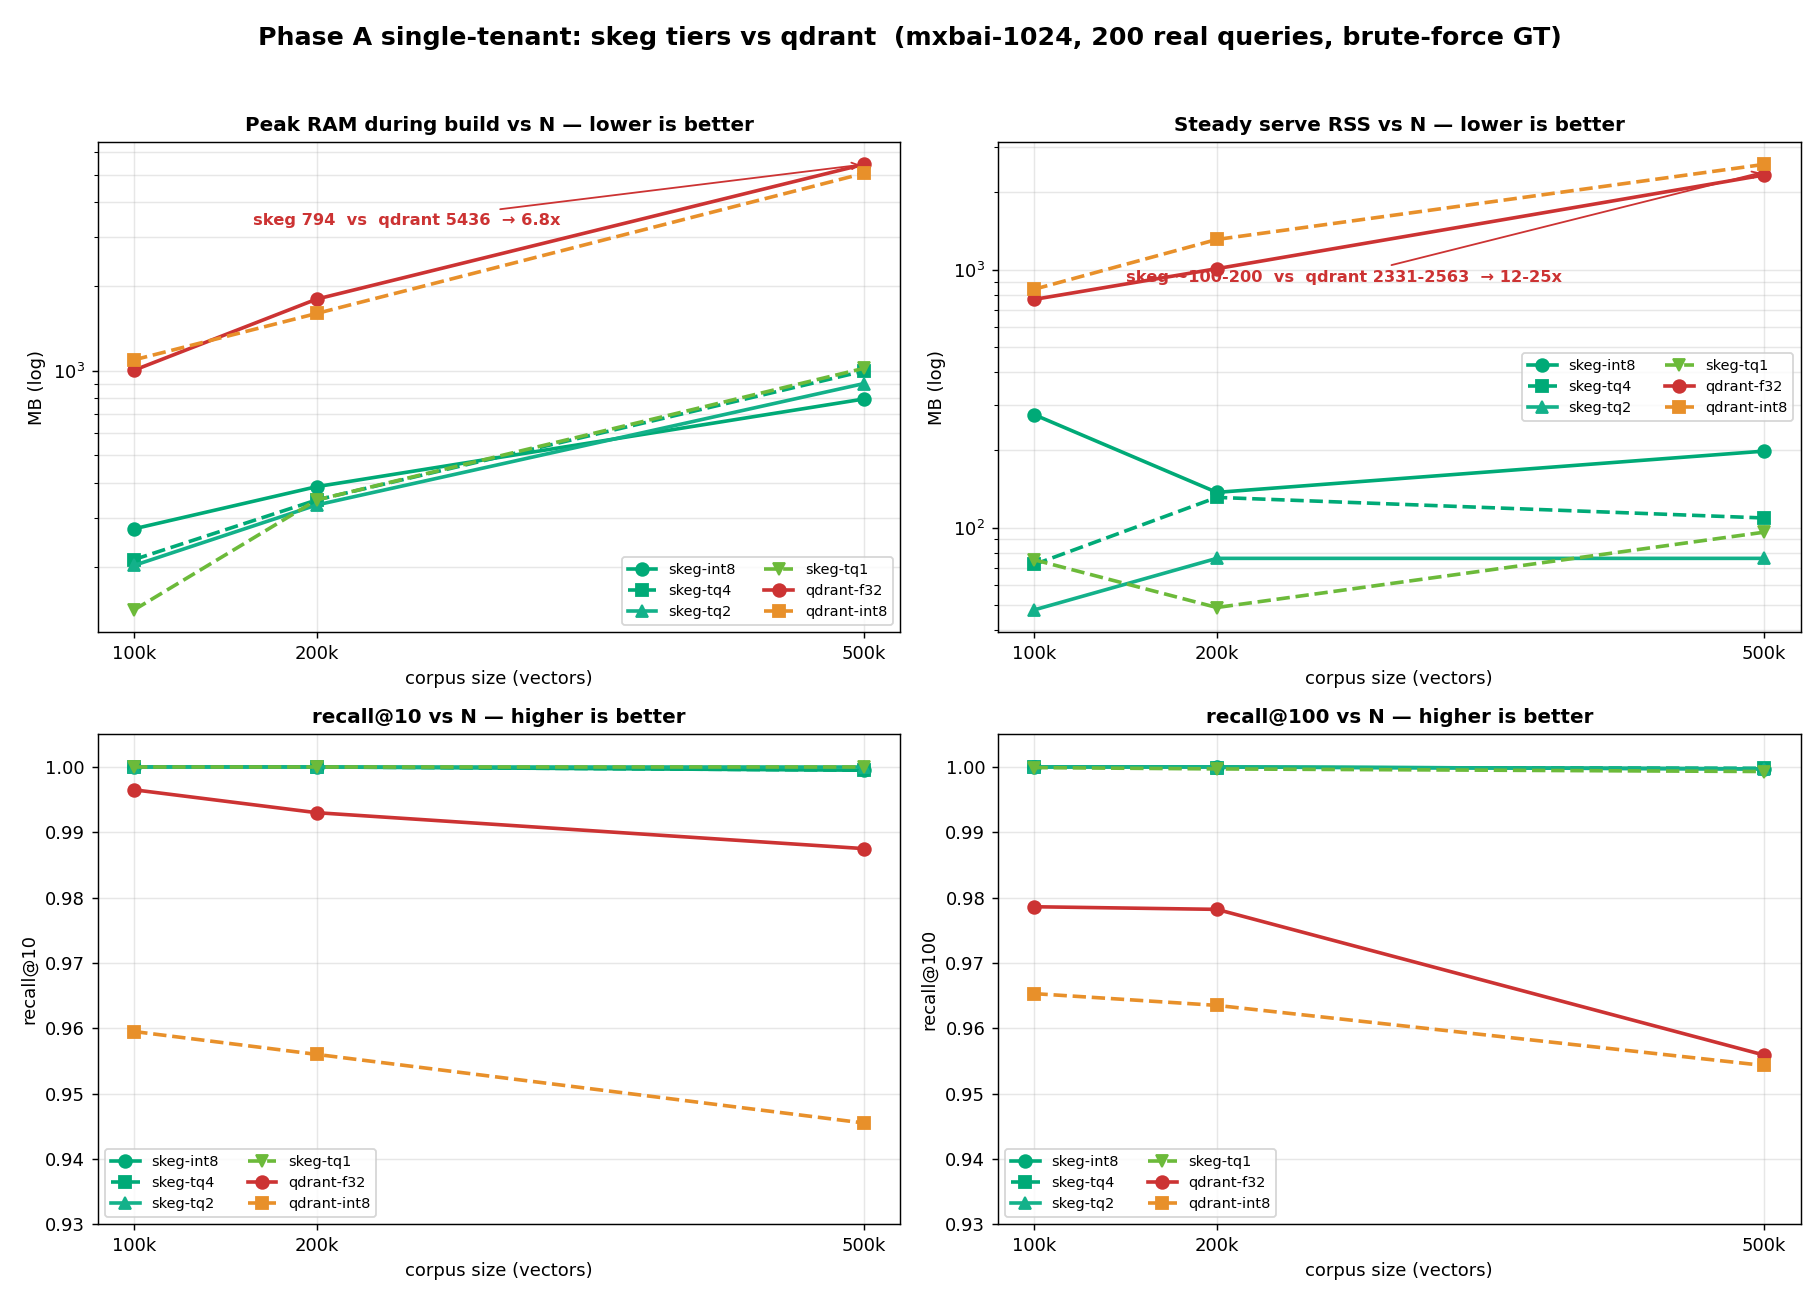
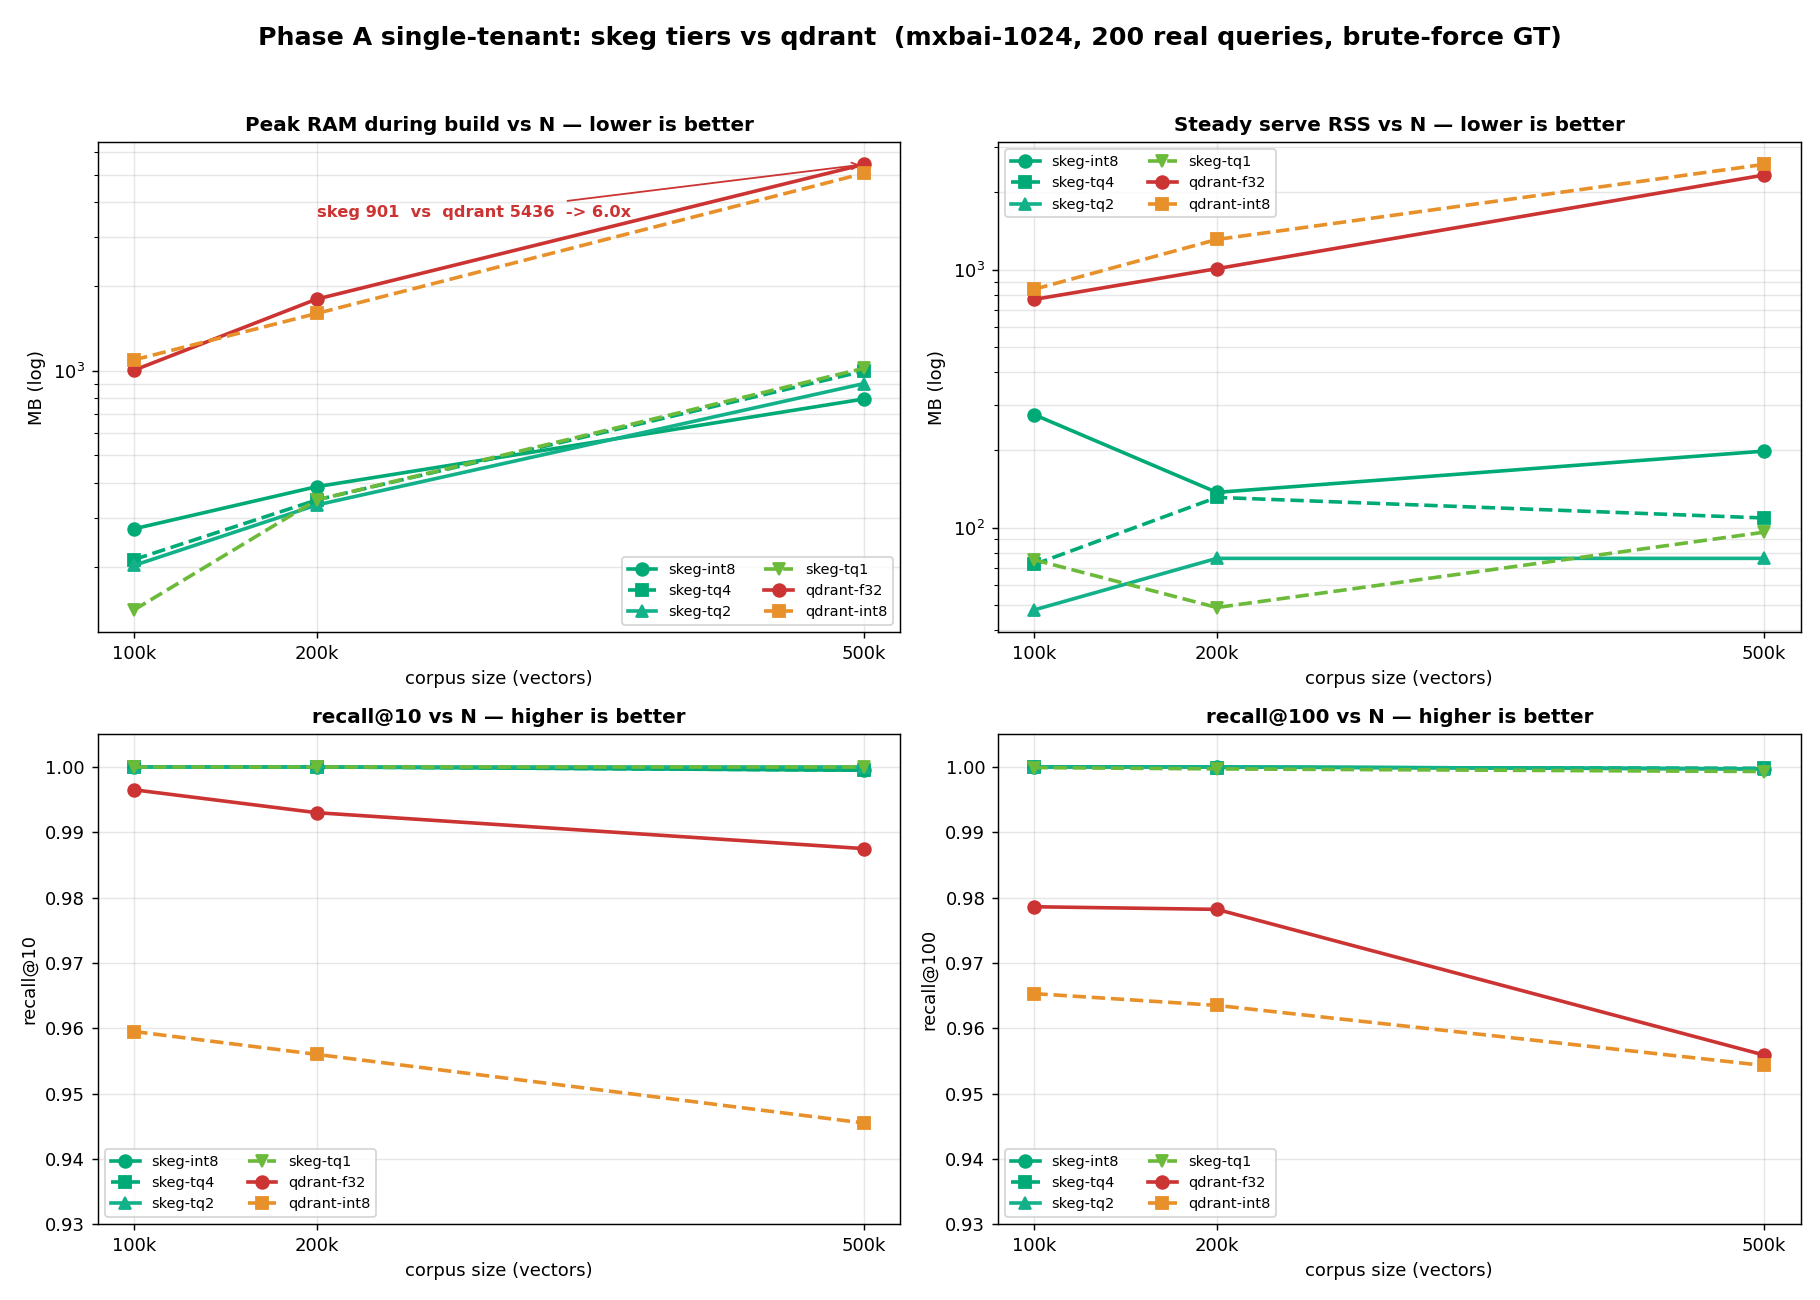
skeg-bench: plots parse results/ (reproducible from fresh runs), embedded reference as fallback

Changed region(s): [[0.5538, 0.1231, 0.8308, 0.2154], [0.8308, 0.2769, 0.9846, 0.3385], [0.1538, 0.1538, 0.3385, 0.1846]]

diff --git a/plots/_parse.py b/plots/_parse.py
@@ -1,0 +1,77 @@
+"""Parse runner.py result files into plot-ready dicts.
+
+Each parser returns (axis_values, {config: {axis_value: metrics_dict}}). Plots
+call these; if the results file is missing they fall back to embedded reference
+numbers, so charts render both from a fresh run and out of the box.
+"""
+import os
+import re
+
+RESULTS = os.path.join(os.path.dirname(os.path.dirname(os.path.abspath(__file__))), "results")
+
+
+def _norm(raw):
+    """Row label -> canonical config key used by the plots."""
+    raw = raw.strip()
+    if raw.startswith("skeg-"):
+        return raw.split()[0]  # "skeg-tq2 (N vindexes)" / "skeg-tq2 shared+filter" -> "skeg-tq2"
+    if "per-collection" in raw:
+        return "qdrant-coll"
+    if raw.startswith("qdrant") and "shared+filter" in raw:
+        return "qdrant-shared"
+    return raw.split()[0]
+
+
+def parse_singletenant(name="singletenant.txt"):
+    """-> (Ns, {config: {N: {build,peak,serve,r10,r100,p50,p95}}}). Single-token configs."""
+    path = os.path.join(RESULTS, name)
+    Ns, data, curN = [], {}, None
+    for line in open(path):
+        m = re.match(r"=== N=(\d+) ===", line)
+        if m:
+            curN = int(m.group(1))
+            if curN not in Ns:
+                Ns.append(curN)
+            continue
+        p = line.split()
+        if curN is None or len(p) != 8 or p[0] == "config" or not p[0][0].isalpha():
+            continue
+        try:
+            b, load, serve, r10, r100, p50, p95 = map(float, p[1:])
+        except ValueError:
+            continue
+        data.setdefault(p[0], {})[curN] = dict(
+            build=b, peak=load, serve=serve, r10=r10, r100=r100, p50=p50, p95=p95)
+    return Ns, data
+
+
+def _parse_tenant_file(name, want_leaks):
+    path = os.path.join(RESULTS, name)
+    tenants, data, curT = [], {}, None
+    row = re.compile(r"\s+(.+?)\s+(\d+)\s+(\d+)\s+([\d.]+)\s+([\d.]+)\s+([\d.]+)\s+(.*)")
+    for line in open(path):
+        m = re.match(r"=== N=(\d+) tenants", line)
+        if m:
+            curT = int(m.group(1))
+            if curT not in tenants:
+                tenants.append(curT)
+            continue
+        m = row.match(line)
+        if curT is None or not m or m.group(1).strip() == "config":
+            continue
+        cfg = _norm(m.group(1))
+        d = dict(peak=int(m.group(2)), serve=int(m.group(3)),
+                 recall=float(m.group(4)), p50=float(m.group(5)), p95=float(m.group(6)))
+        if want_leaks:
+            tail = m.group(7).split()
+            d["leaks"] = int(tail[0]) if tail and tail[0].isdigit() else 0
+        data.setdefault(cfg, {})[curT] = d
+    return tenants, data
+
+
+def parse_multitenant(name="multitenant.txt"):
+    return _parse_tenant_file(name, want_leaks=False)
+
+
+def parse_filter(name="filter.txt"):
+    return _parse_tenant_file(name, want_leaks=True)

diff --git a/plots/plot_singletenant.py b/plots/plot_singletenant.py
@@ -34,11 +34,23 @@ LINE = {
 }
 I = dict(build=0, peak=1, serve=2, r10=3, r100=4, p50=5, p95=6)
 
+# Prefer a fresh run's results/; fall back to the embedded reference numbers.
+try:
+    from _parse import parse_singletenant
+    _Ns, _d = parse_singletenant()
+    if _d:
+        _ord = ["build", "peak", "serve", "r10", "r100", "p50", "p95"]
+        N = _Ns
+        NLAB = [f"{n // 1000}k" if n >= 1000 else str(n) for n in _Ns]
+        D = {c: [tuple(_d[c][n][k] for k in _ord) for n in _Ns] for c in _d}
+except (FileNotFoundError, KeyError):
+    pass
+
 
 def lines(a, key, title, ylab, logy, ylim=None):
     for cfg in D:
-        col, ls, mk = LINE[cfg]
-        a.plot(N, [D[cfg][j][I[key]] for j in range(3)], ls, color=col, marker=mk,
+        col, ls, mk = LINE.get(cfg, ("#888", "-", "o"))
+        a.plot(N, [D[cfg][j][I[key]] for j in range(len(N))], ls, color=col, marker=mk,
                lw=2, ms=7, label=cfg)
     if logy:
         a.set_yscale("log")
@@ -61,11 +73,14 @@ lines(ax[0][1], "serve", "Steady serve RSS vs N — lower is better", "MB (log)"
 lines(ax[1][0], "r10",   "recall@10 vs N — higher is better", "recall@10", False, (0.93, 1.005))
 lines(ax[1][1], "r100",  "recall@100 vs N — higher is better", "recall@100", False, (0.93, 1.005))
 
-# RAM gap callouts (peak + serve) at N=500k
-ax[0][0].annotate("skeg 794  vs  qdrant 5436  → 6.8x", xy=(500_000, 5436), xytext=(165_000, 3300),
-                  fontsize=9, color="#c33", fontweight="bold", arrowprops=dict(arrowstyle="->", color="#c33"))
-ax[0][1].annotate("skeg ~100-200  vs  qdrant 2331-2563  → 12-25x", xy=(500_000, 2400), xytext=(150_000, 900),
-                  fontsize=9, color="#c33", fontweight="bold", arrowprops=dict(arrowstyle="->", color="#c33"))
+# RAM gap callout at the largest N, computed from whatever data is loaded.
+if len(N) >= 2 and "qdrant-f32" in D and "skeg-tq2" in D:
+    qd = D["qdrant-f32"][-1][I["peak"]]
+    sk = D["skeg-tq2"][-1][I["peak"]]
+    ax[0][0].annotate(f"skeg {sk:.0f}  vs  qdrant {qd:.0f}  -> {qd / sk:.1f}x",
+                      xy=(N[-1], qd), xytext=(N[len(N) // 3], qd * 0.65),
+                      fontsize=9, color="#c33", fontweight="bold",
+                      arrowprops=dict(arrowstyle="->", color="#c33"))
 
 fig.tight_layout(rect=[0, 0, 1, 0.96])
 import os
@@ -107,9 +122,9 @@ def ram_pair(a, ni, title):
 
 
 fig2, ax2 = plt.subplots(1, 1, figsize=(13, 7))
-fig2.suptitle("Phase A RAM @500k — peak vs serve RSS side by side, linear  (mxbai-1024)",
+fig2.suptitle(f"Phase A RAM @{NLAB[-1]} — peak vs serve RSS side by side, linear  (mxbai-1024)",
               fontsize=14, fontweight="bold")
-ram_pair(ax2, 2, "Peak vs serve RSS @500k (MB) per config — lower is better")
+ram_pair(ax2, len(N) - 1, f"Peak vs serve RSS @{NLAB[-1]} (MB) per config — lower is better")
 fig2.tight_layout(rect=[0, 0, 1, 0.95])
 out2 = "charts/chart_singletenant_ram.png"
 fig2.savefig(out2, dpi=130)

diff --git a/plots/plot_latency.py b/plots/plot_latency.py
@@ -38,9 +38,24 @@ STY = {
 }
 
 
+# Prefer fresh runs; fall back to embedded reference. A=single-tenant, B=multi.
+try:
+    from _parse import parse_singletenant, parse_multitenant
+    _na, _ad = parse_singletenant()
+    if _ad:
+        NA = _na
+        A = {c: [(_ad[c][n]["p50"], _ad[c][n]["p95"]) for n in _na] for c in _ad}
+    _tb, _bd = parse_multitenant()
+    if _bd:
+        TB = _tb
+        B = {c: [(_bd[c][t]["p50"], _bd[c][t]["p95"]) for t in _tb] for c in _bd}
+except (FileNotFoundError, KeyError):
+    pass
+
+
 def panel(a, data, xs, idx, title, xlab, xticklab):
     for cfg in data:
-        col, ls, mk = STY[cfg]
+        col, ls, mk = STY.get(cfg, ("#888", "-", "o"))
         a.plot(xs, [data[cfg][j][idx] for j in range(len(xs))], ls, color=col,
                marker=mk, lw=2, ms=7, label=cfg)
     a.set_title(title, fontsize=11, fontweight="bold")
@@ -53,10 +68,12 @@ fig, ax = plt.subplots(2, 2, figsize=(14, 10))
 fig.suptitle("Query latency across both phases — skeg tiers vs qdrant  (mxbai-1024; skeg RESP3 vs qdrant HTTP)",
              fontsize=13, fontweight="bold")
 
-panel(ax[0][0], A, NA, 0, "Phase A single-tenant — p50 vs N (lower is better)", "corpus size", ["100k", "200k", "500k"])
-panel(ax[0][1], A, NA, 1, "Phase A single-tenant — p95 vs N (lower is better)", "corpus size", ["100k", "200k", "500k"])
-panel(ax[1][0], B, TB, 0, "Phase B multi-tenant — p50 vs #tenants (lower is better)", "tenants", ["3", "5"])
-panel(ax[1][1], B, TB, 1, "Phase B multi-tenant — p95 vs #tenants (lower is better)", "tenants", ["3", "5"])
+_alab = [f"{n // 1000}k" if n >= 1000 else str(n) for n in NA]
+_blab = [str(t) for t in TB]
+panel(ax[0][0], A, NA, 0, "Phase A single-tenant — p50 vs N (lower is better)", "corpus size", _alab)
+panel(ax[0][1], A, NA, 1, "Phase A single-tenant — p95 vs N (lower is better)", "corpus size", _alab)
+panel(ax[1][0], B, TB, 0, "Phase B multi-tenant — p50 vs #tenants (lower is better)", "tenants", _blab)
+panel(ax[1][1], B, TB, 1, "Phase B multi-tenant — p95 vs #tenants (lower is better)", "tenants", _blab)
 
 fig.tight_layout(rect=[0, 0, 1, 0.96])
 import os

diff --git a/plots/plot_multitenant.py b/plots/plot_multitenant.py
@@ -37,11 +37,22 @@ LINE = {
 }
 I = dict(peak=0, serve=1, recall=2, p50=3, p95=4)
 
+# Prefer a fresh run's results/; fall back to embedded reference numbers.
+try:
+    from _parse import parse_multitenant
+    _Ts, _d = parse_multitenant()
+    if _d:
+        _ord = ["peak", "serve", "recall", "p50", "p95"]
+        T = _Ts
+        D = {c: [tuple(_d[c][t][k] for k in _ord) for t in _Ts] for c in _d}
+except (FileNotFoundError, KeyError):
+    pass
+
 
 def lines(a, key, title, ylab, logy, ylim=None):
     for cfg in D:
-        col, ls, mk = LINE[cfg]
-        a.plot(T, [D[cfg][j][I[key]] for j in range(2)], ls, color=col, marker=mk,
+        col, ls, mk = LINE.get(cfg, ("#888", "-", "o"))
+        a.plot(T, [D[cfg][j][I[key]] for j in range(len(T))], ls, color=col, marker=mk,
                lw=2, ms=8, label=cfg)
     if logy:
         a.set_yscale("log")
@@ -60,7 +71,8 @@ fig.suptitle("Phase B multi-tenant density: skeg per-tenant isolation vs qdrant 
              fontsize=13, fontweight="bold")
 
 lines(ax[0][0], "peak", "Peak RAM vs #tenants — skeg flat, qdrant climbs (lower is better)", "MB (log)", True)
-ax[0][0].annotate("skeg ~flat\n(bounded by largest tenant)", xy=(5, 230), xytext=(3.25, 470),
+_sk_y = D.get("skeg-int8", D[list(D)[0]])[-1][I["peak"]]
+ax[0][0].annotate("skeg ~flat\n(bounded by largest tenant)", xy=(T[-1], _sk_y), xytext=(T[0] + (T[-1] - T[0]) * 0.15, _sk_y * 2.0),
                   fontsize=9, color="#085", fontweight="bold", arrowprops=dict(arrowstyle="->", color="#085"))
 lines(ax[0][1], "serve", "Steady serve RSS vs #tenants (lower is better)", "MB (log)", True)
 lines(ax[1][0], "recall", "recall@10 vs #tenants — skeg 1.0, qdrant lower (higher is better)", "recall@10", False, (0.94, 1.005))
@@ -69,8 +81,8 @@ lines(ax[1][0], "recall", "recall@10 vs #tenants — skeg 1.0, qdrant lower (hig
 a = ax[1][1]
 cfgs = list(D.keys())
 x = np.arange(len(cfgs)); w = 0.4
-peak = [D[c][1][I["peak"]] for c in cfgs]   # 5 tenants
-serve = [D[c][1][I["serve"]] for c in cfgs]
+peak = [D[c][len(T) - 1][I["peak"]] for c in cfgs]   # largest tenant count
+serve = [D[c][len(T) - 1][I["serve"]] for c in cfgs]
 b1 = a.bar(x - w/2, peak, w, color="#4878b0", edgecolor="k", lw=0.4, label="peak (build)")
 b2 = a.bar(x + w/2, serve, w, color="#f0a04b", edgecolor="k", lw=0.4, label="serve (steady RSS)")
 for bars in (b1, b2):

diff --git a/plots/plot_shared_filter.py b/plots/plot_shared_filter.py
@@ -30,11 +30,22 @@ LINE = {
 }
 I = dict(peak=0, serve=1, recall=2, p50=3)
 
+# Prefer a fresh run's results/filter.txt; fall back to embedded reference.
+try:
+    from _parse import parse_filter
+    _Ts, _d = parse_filter()
+    if _d:
+        _ord = ["peak", "serve", "recall", "p50"]
+        T = _Ts
+        D = {c: [tuple(_d[c][t][k] for k in _ord) for t in _Ts] for c in _d}
+except (FileNotFoundError, KeyError):
+    pass
+
 
 def lines(a, key, title, ylab, logy, ylim=None):
     for cfg in D:
-        col, ls, mk = LINE[cfg]
-        a.plot(T, [D[cfg][j][I[key]] for j in range(2)], ls, color=col, marker=mk, lw=2, ms=8, label=cfg)
+        col, ls, mk = LINE.get(cfg, ("#888", "-", "o"))
+        a.plot(T, [D[cfg][j][I[key]] for j in range(len(T))], ls, color=col, marker=mk, lw=2, ms=8, label=cfg)
     if logy:
         a.set_yscale("log")
     if ylim:
@@ -58,15 +69,15 @@ lines(ax[1][0], "recall", "recall@10 vs #tenants — qdrant decays to 0.94 (high
 a = ax[1][1]
 cfgs = list(D.keys())
 x = np.arange(len(cfgs)); w = 0.4
-peak = [D[c][1][I["peak"]] for c in cfgs]
-serve = [D[c][1][I["serve"]] for c in cfgs]
+peak = [D[c][len(T) - 1][I["peak"]] for c in cfgs]
+serve = [D[c][len(T) - 1][I["serve"]] for c in cfgs]
 b1 = a.bar(x - w/2, peak, w, color="#4878b0", edgecolor="k", lw=0.4, label="peak (build)")
 b2 = a.bar(x + w/2, serve, w, color="#f0a04b", edgecolor="k", lw=0.4, label="serve (steady RSS)")
 for bars in (b1, b2):
     for b in bars:
         a.text(b.get_x() + b.get_width()/2, b.get_height(), f"{b.get_height():.0f}",
                ha="center", va="bottom", fontsize=8, rotation=90)
-a.set_title("RAM @5 tenants — peak vs serve RSS (lower is better)", fontsize=11, fontweight="bold")
+a.set_title(f"RAM @{T[-1]} tenants — peak vs serve RSS (lower is better)", fontsize=11, fontweight="bold")
 a.set_ylabel("MB"); a.set_ylim(top=max(peak)*1.18)
 a.set_xticks(x); a.set_xticklabels(cfgs, rotation=20, ha="right", fontsize=9)
 a.grid(True, alpha=0.3, axis="y"); a.legend(fontsize=8)